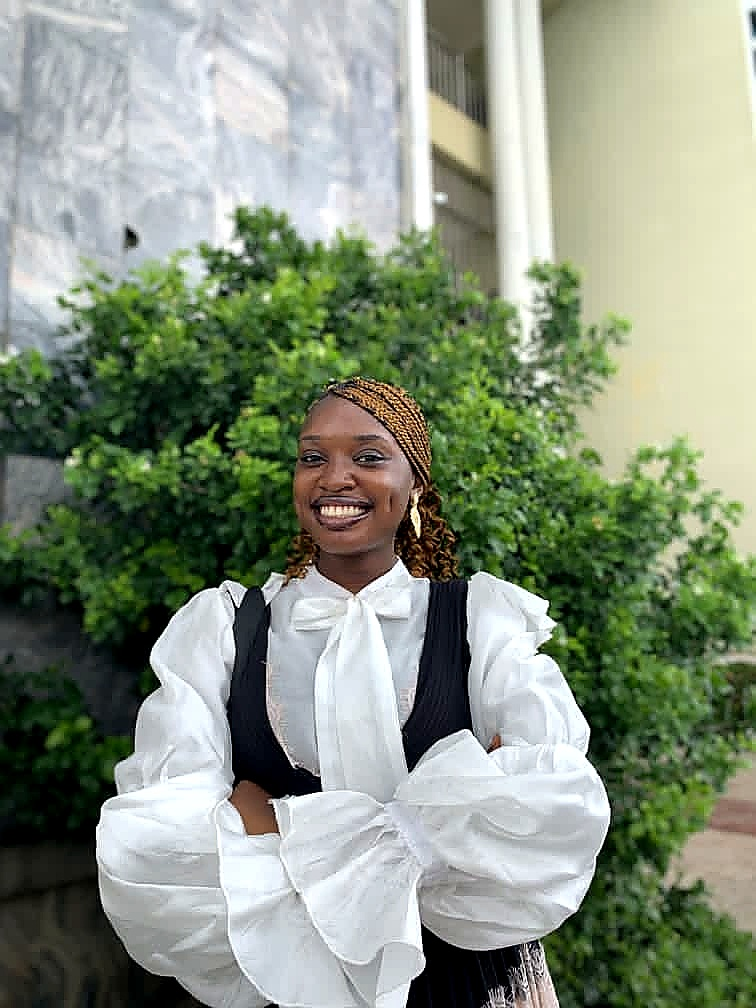
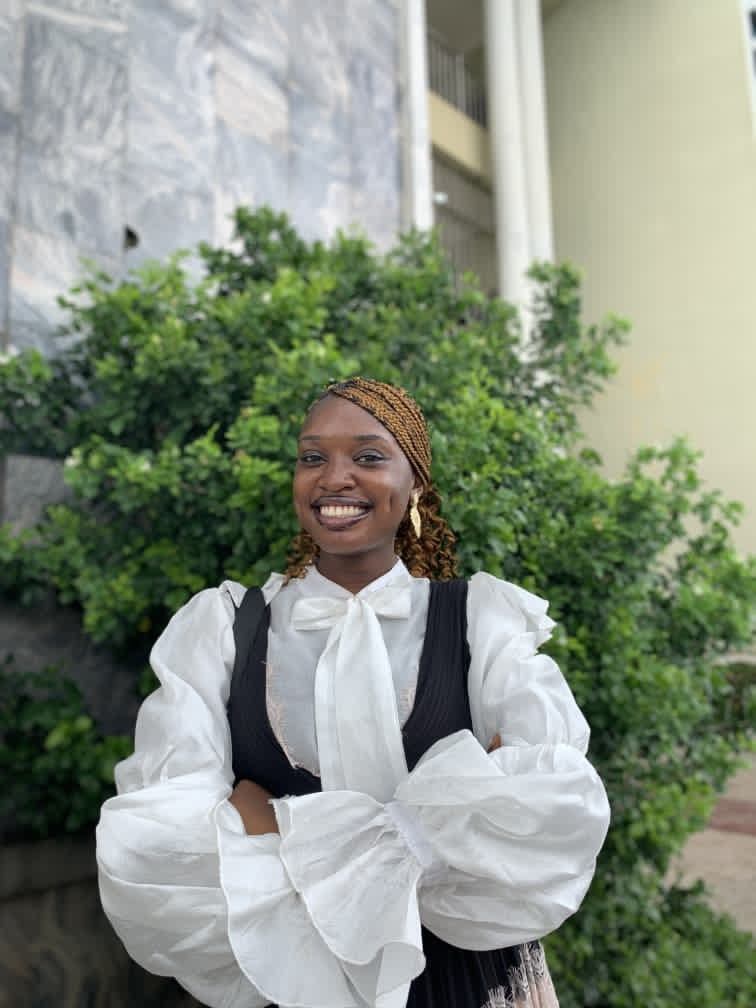
Restore black & white founder portrait and update founder gallery slideshow

diff --git a/src/components/AboutFounder.jsx b/src/components/AboutFounder.jsx
@@ -8,15 +8,15 @@ import LogoIcon from './LogoIcon';
 
 const founderImages = [
   {
-    src: '/assets/founder/founder_1.jpg?v=2',
+    src: '/assets/founder/founder_1.jpg?v=3',
     caption: 'Nsikakabasi Essien — Creative Lead'
   },
   {
-    src: '/assets/founder/founder_2.jpg?v=2',
-    caption: 'Nsikakabasi Essien — Spatial Architect'
+    src: '/assets/founder/founder_2.jpg?v=3',
+    caption: 'Nsikakabasi Essien — Architect & Spatial Designer'
   },
   {
-    src: '/assets/founder/founder_3.jpg?v=2',
+    src: '/assets/founder/founder_3.jpg?v=3',
     caption: 'Nsikakabasi Essien — Studio Founder'
   }
 ];
